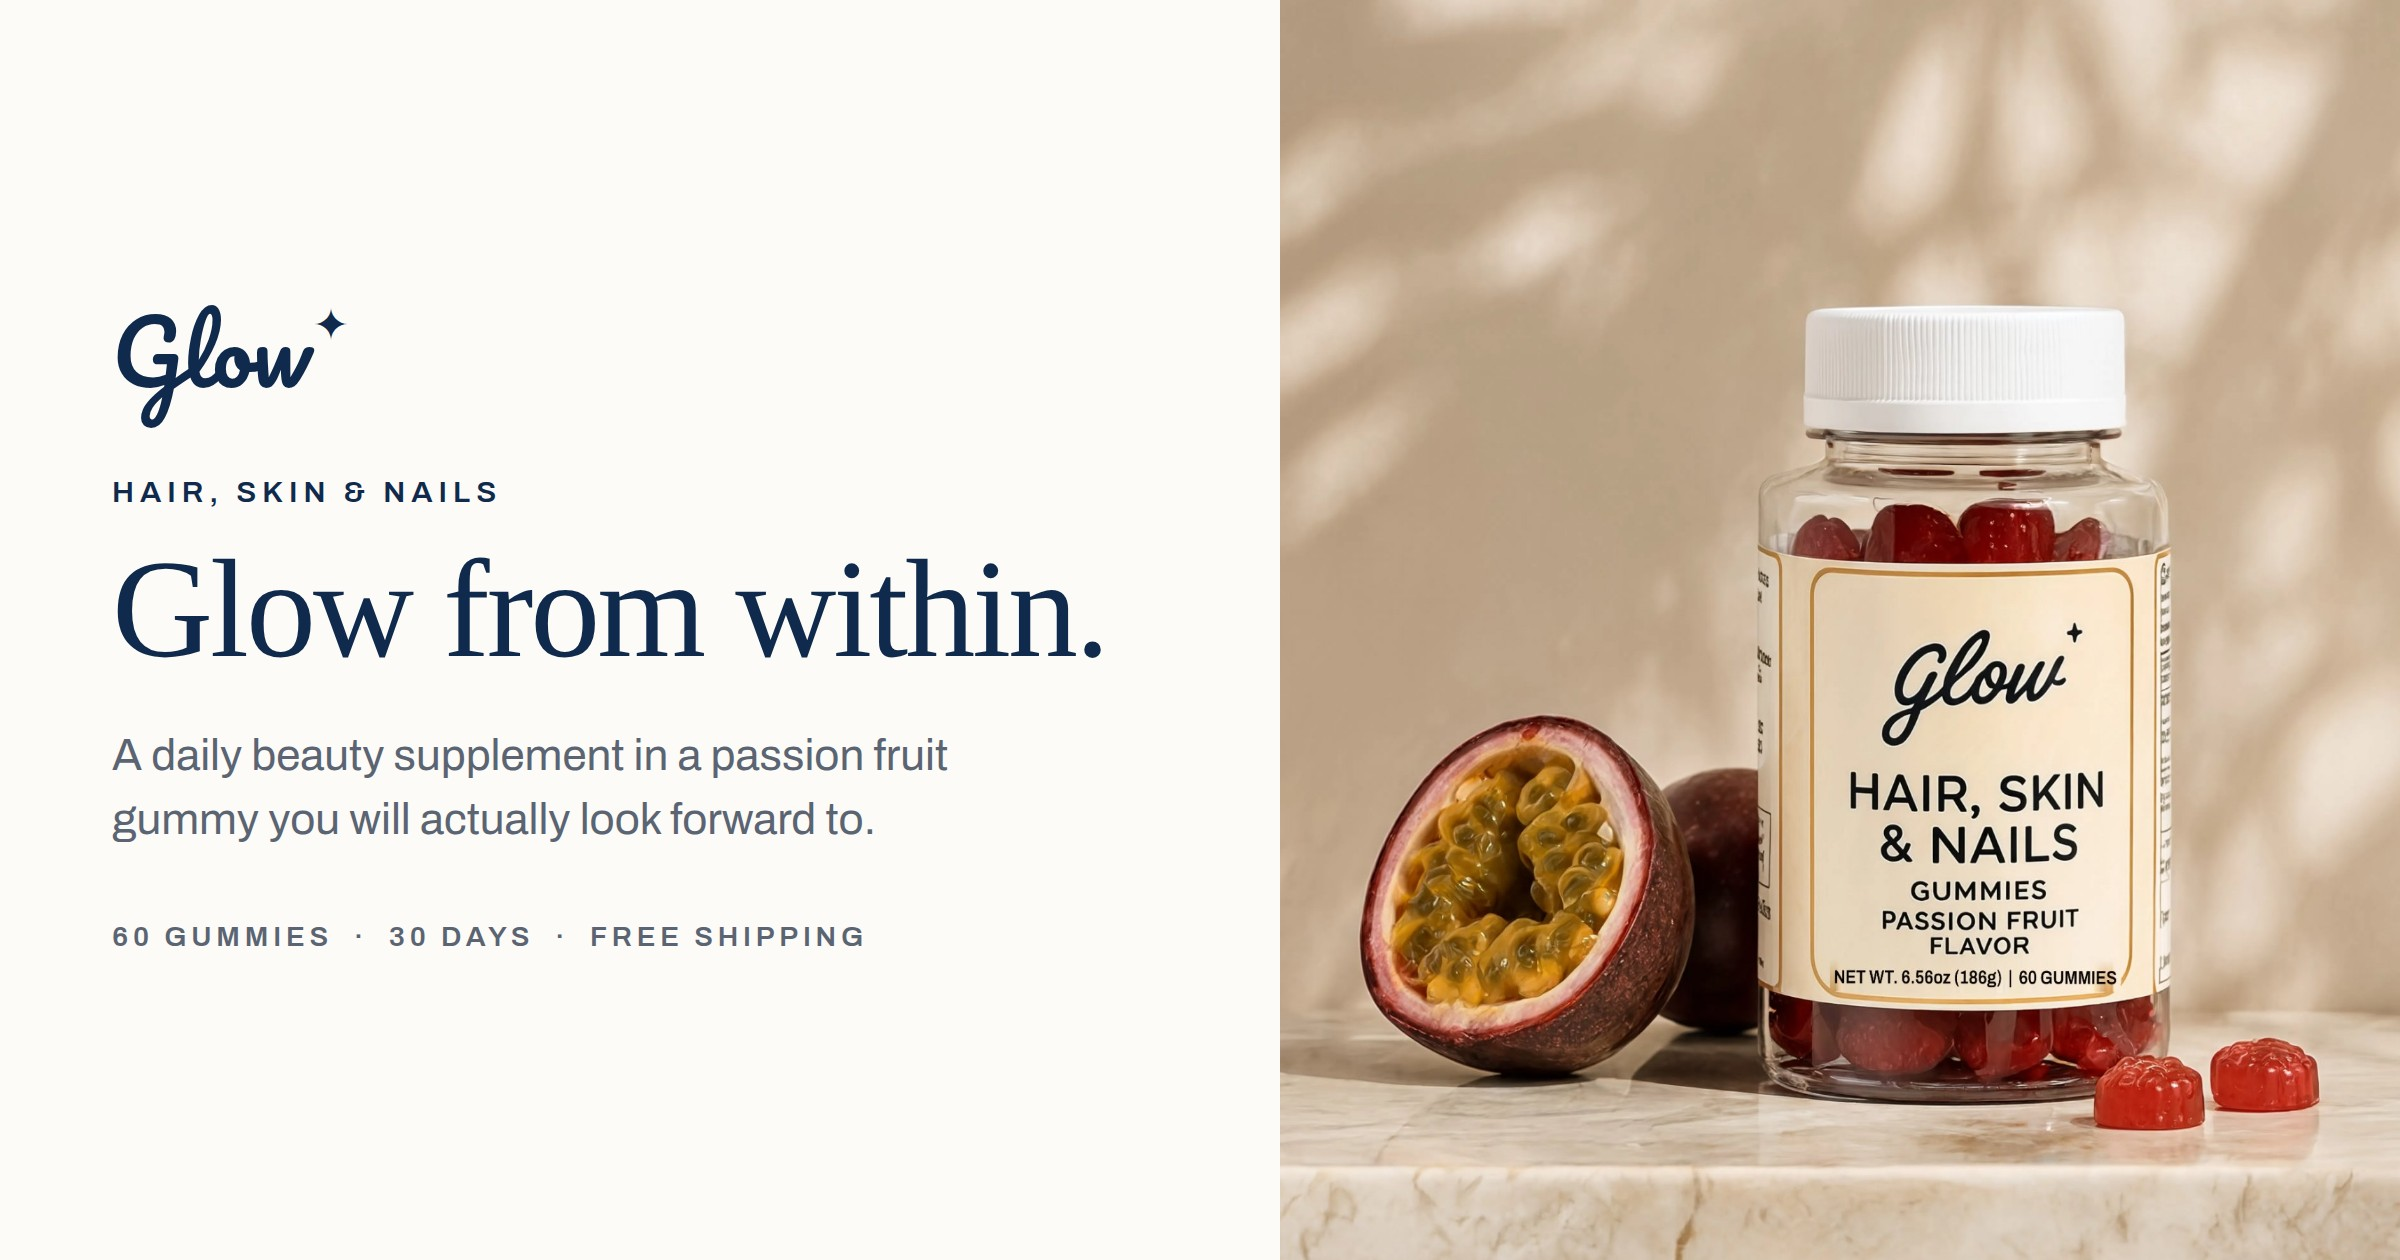
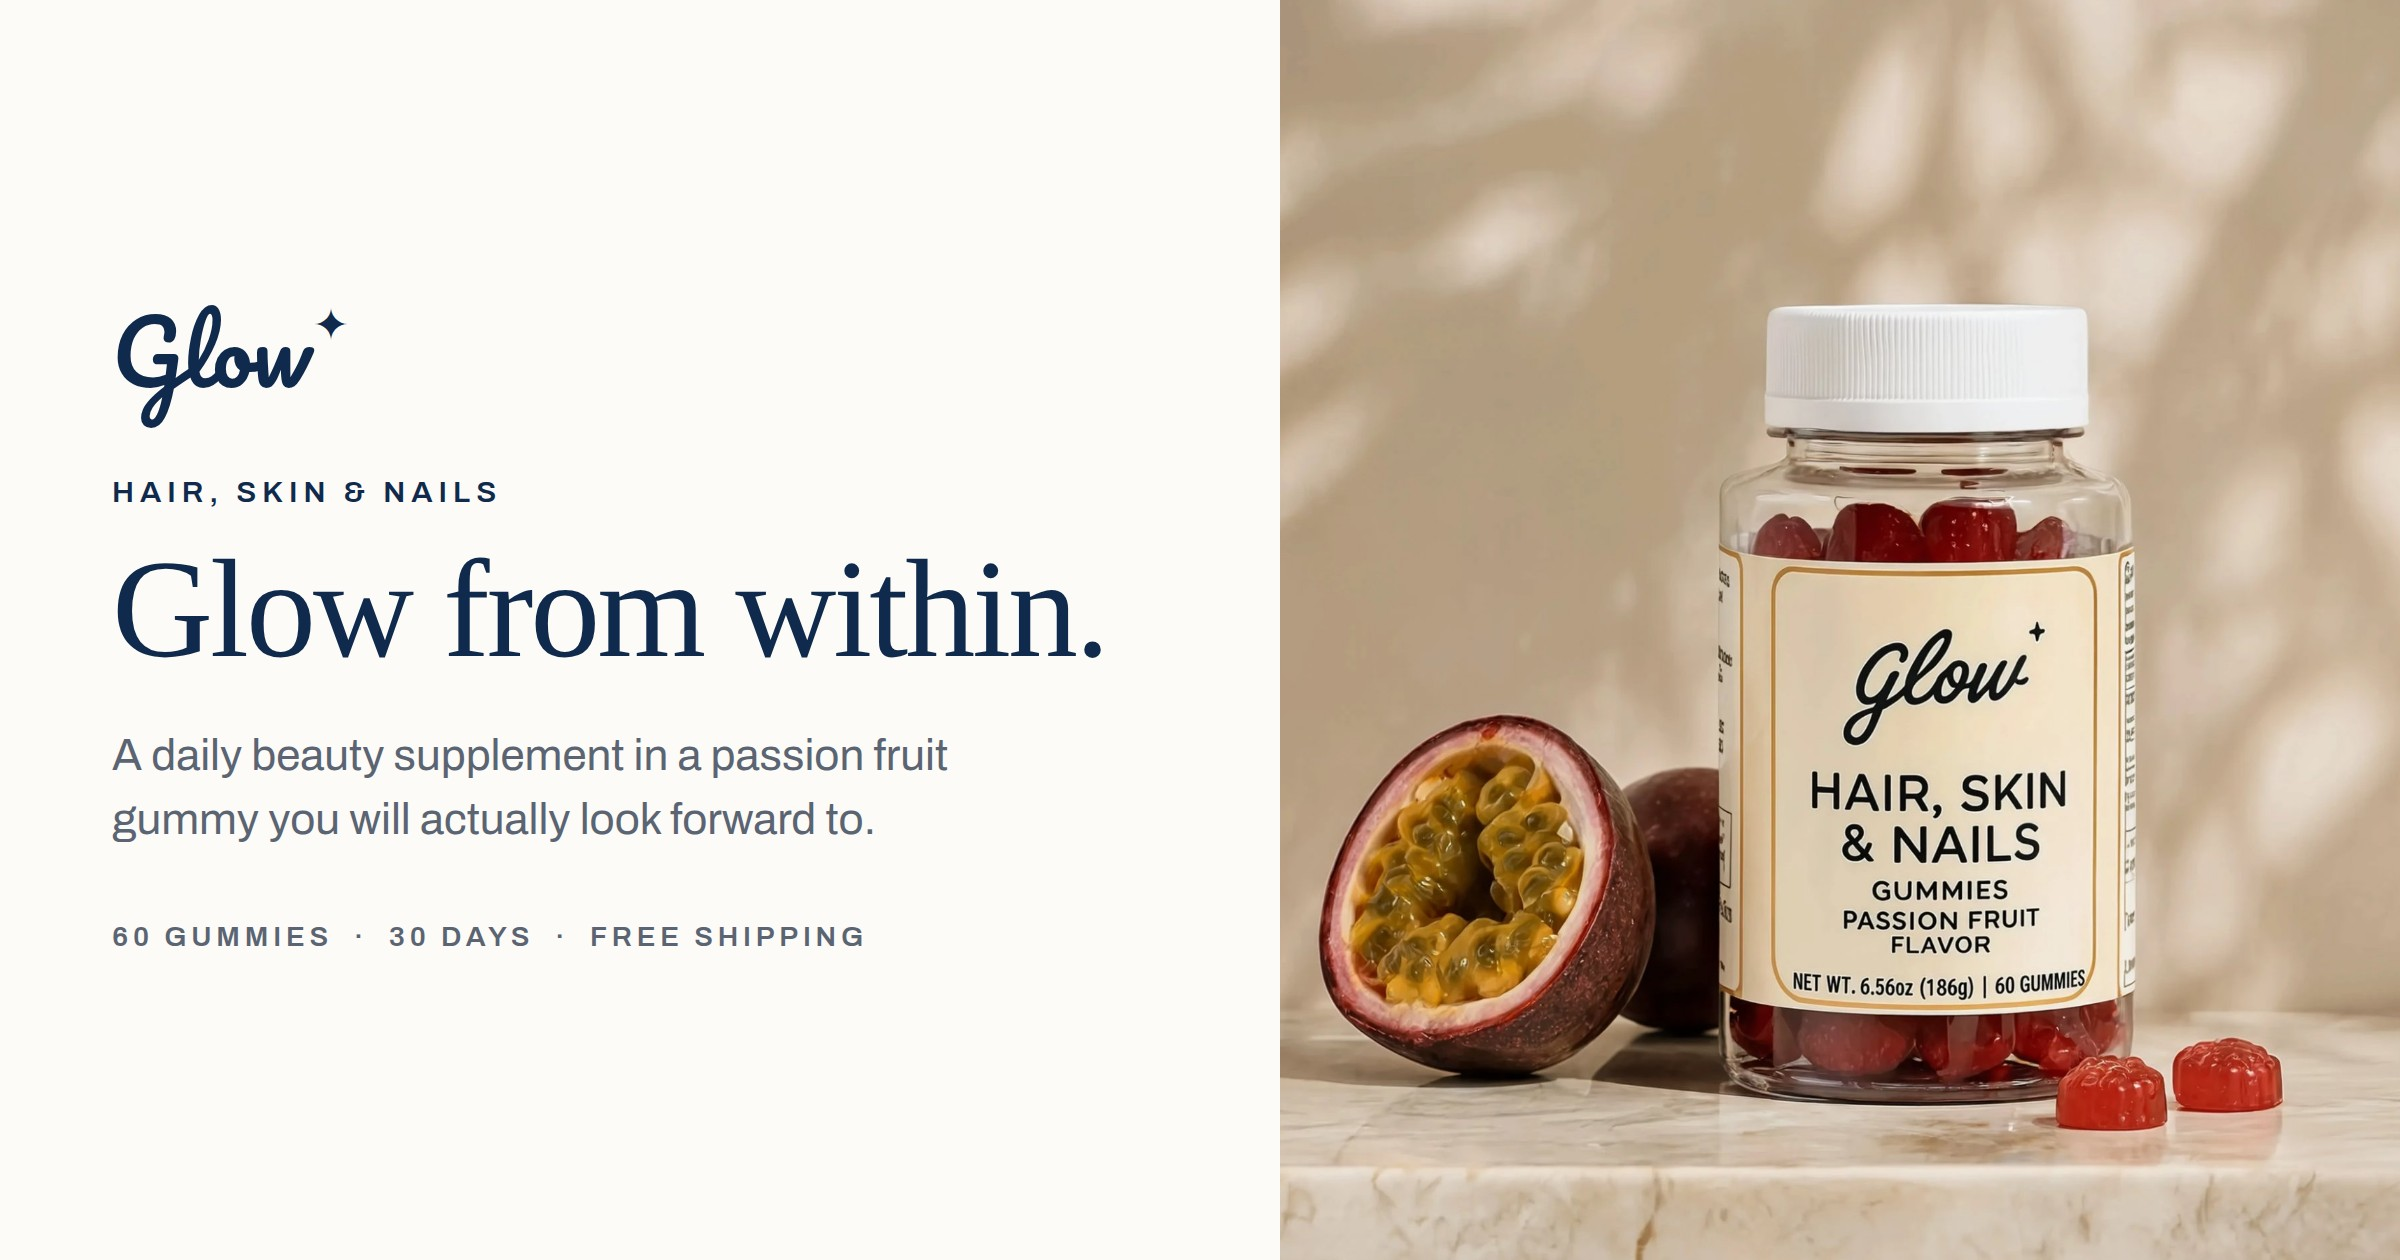
Rebuild the share card, and retire the retouch notes
Merging main brought in another line of work that re-shot the product
photography against corrected packaging. Checked the new files rather than
taking the claim on trust: the fruit and in-hand shots both read
6.56 oz (186 g) in camera, which is what products.json says. That supersedes
the retouch, and the in-hand shot is rightly back in the gallery.

Two things the merge left behind:

The share card was still built from the retouched fruit shot, so it was the
one image on the site not showing the new photography. Rebuilt from the
current hero.

The renderer notes still described the retouch as the live state of the
assets, and still said the in-hand shot had been dropped. Both are now
false. That section is marked historical, and relabel.mjs is kept for what
it is worth next time artwork changes faster than photography -- with its
limits written down, and re-shooting named as the better answer.

Verified on the merged tree: the Supplement Facts panel still matches the
photographed label row for row on both pages, and all 14 pages are clean at
390 and 1440 with no console errors, failed requests or overflow.

Claude-Session: https://claude.ai/code/session_01NeVrV3pv3SBgsbq4XiRHGC

diff --git a/tools/spin-render/README.md b/tools/spin-render/README.md
@@ -35,26 +35,30 @@ twice.
 
 ## The net weight on the photographed label
 
-The photography was shot against pre-production packaging. Two shots read
-`10.1 oz (286 g)` and the in-hand shot read `10.58 oz (300 g)`; the product is
-`6.56 oz (186 g)`. Net weight is a required declaration, so a bottle on the
-page cannot show a figure the page contradicts.
+**Historical. Nothing in `public/products/` is retouched any more.** The
+photography has since been re-shot against corrected packaging, and every
+bottle on the site now reads `6.56 oz (186 g)` in camera.
 
-`relabel.mjs` rebuilds the label stock under that line and typesets the
-correct figure back, working on the full-resolution originals so one pass
-propagates through every crop. Run it before the crop pipeline:
+The first shoot used pre-production packaging: two shots read
+`10.1 oz (286 g)` and the in-hand shot read `10.58 oz (300 g)`, against the
+`6.56 oz (186 g)` in `products.json`. Net weight is a required declaration, so
+a bottle on the page cannot show a figure the page contradicts, and
+`relabel.mjs` was written to rebuild the label stock under that line and
+typeset the correct figure back:
 
     node relabel.mjs relabel-jobs.json <dir-with-originals>
 
-It does not work on every shot, and the failure is visible rather than silent.
-The in-hand shot has only four clean pixel rows between the flavour line and
-the net weight -- not enough label to rebuild from -- so it was dropped from
-the site instead of retouched badly. Measure the gap before assuming a shot is
-workable; `squeeze` values that disagree across a set mean the geometry is off.
+It is kept because the problem recurs whenever artwork changes faster than
+photography, and because its limits are worth knowing before reaching for it:
 
-**This corrects imagery, not packaging.** If bottles are shipping with the old
-declaration printed on them, that is a labelling problem and new labels are
-the fix.
+- It does not work on every shot, and the failure is visible rather than
+  silent. The first in-hand shot had four clean pixel rows between the flavour
+  line and the net weight -- not enough label to rebuild from -- so that shot
+  was dropped from the site rather than retouched badly. Measure the gap
+  before assuming a shot is workable.
+- `squeeze` values that disagree across a set mean the geometry is wrong.
+- **It corrects imagery, not packaging.** Re-shooting, as happened here, is
+  always the better answer when it is available.
 
 ## What photography has already replaced
 
